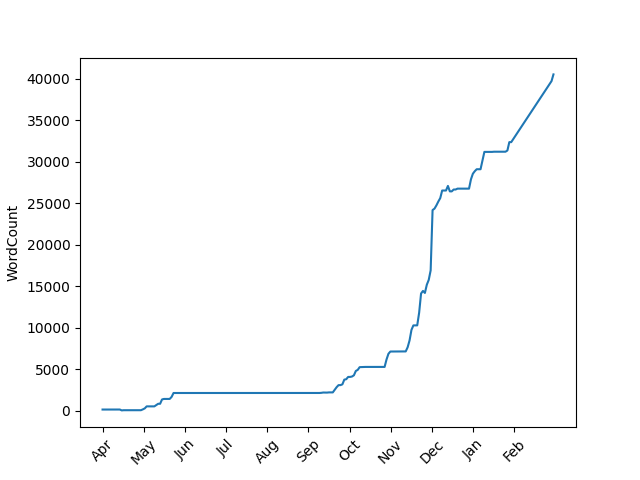
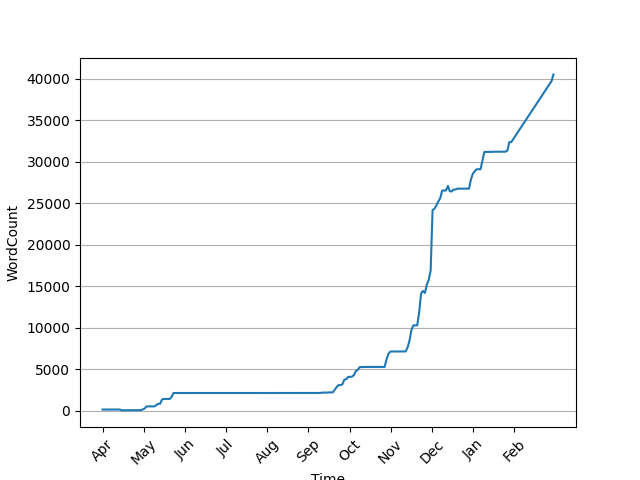
Daily data update

Changed region(s): [[0.5, 0.9688, 0.5312, 1.0]]

diff --git a/plot_word_count.py b/plot_word_count.py
@@ -24,8 +24,9 @@ def main(data_file, output_file):
     y_axis=ds.axes[1][1]
     plt.plot(ds[x_axis], ds[y_axis])
     plt.xticks(ticks, months, rotation=45)
-    #plt.xlabel(x_axis)
+    plt.xlabel('Time')
     plt.ylabel(y_axis)
+    plt.grid(axis='y')
     plt.savefig(output_file)
 
 if __name__ == "__main__":
